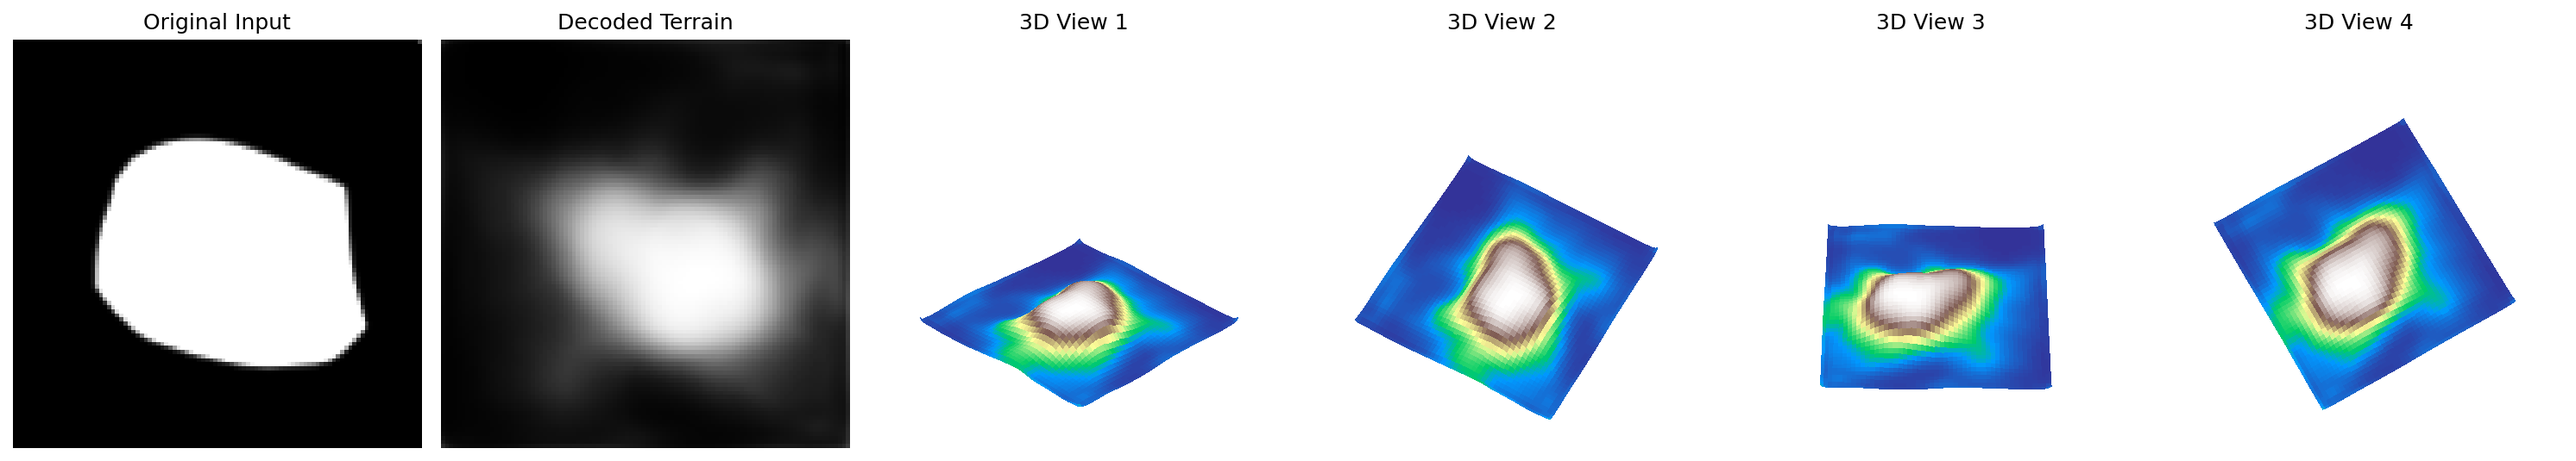
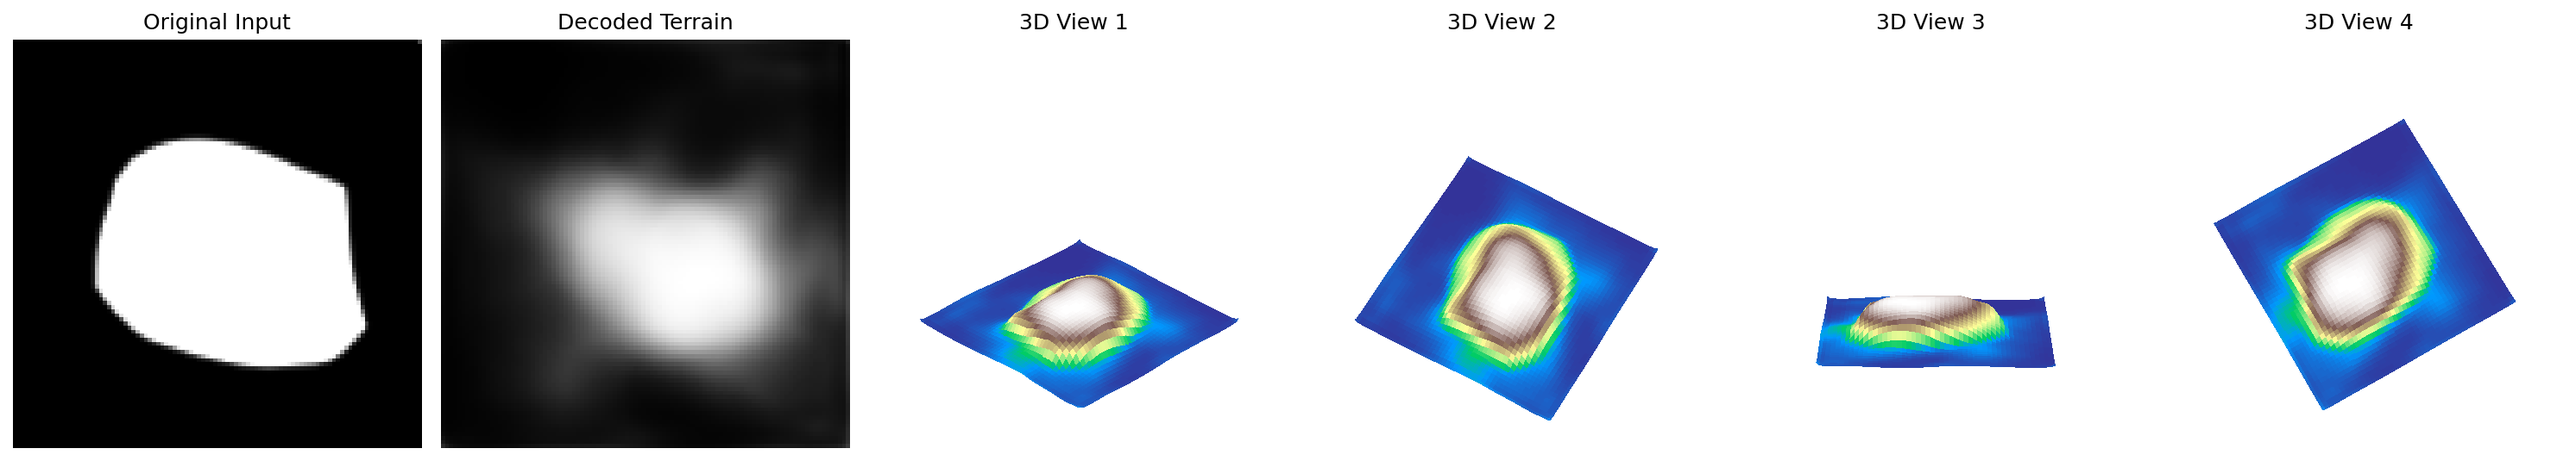
some lerping + better visualiztion

diff --git a/usage.py b/usage.py
@@ -9,6 +9,22 @@ from PIL import Image
 import os
 from classify_terrain_tensor import count_features_by_class, classify_terrain_tensor, terrain_counts_tensor
 
+
+def gaussian_kernel(size: int, sigma: float):
+    ax = torch.arange(-size // 2 + 1., size // 2 + 1.)
+    xx, yy = torch.meshgrid(ax, ax, indexing="ij")
+    kernel = torch.exp(-(xx**2 + yy**2) / (2. * sigma**2))
+    kernel = kernel / kernel.sum()
+    return kernel
+
+
+def gaussian_blur(img: torch.Tensor, blur_size: int, sigma: float):
+    # img shape: (batch, channels, H, W)
+    kernel = gaussian_kernel(blur_size, sigma)
+    kernel = kernel.expand(img.size(1), 1, blur_size, blur_size)
+    return F.conv2d(img, kernel, padding=blur_size//2, groups=img.size(1))
+
+
 device = torch.device("cuda")
 
 # Load model and weights
@@ -18,7 +34,7 @@ model.load_state_dict(checkpoint["model_state_dict"])
 model.eval()
 
 # Load one input image from inputs/
-img_path = "example4.png"
+img_path = "example2.png"
 img = Image.open(os.path.join("inputs", img_path)).convert("L").resize((hpcfg.img_size, hpcfg.img_size))
 x = torch.tensor(np.array(img), dtype=torch.float32).unsqueeze(0).unsqueeze(0) / 255.0
 x = x.to(device)
@@ -31,10 +47,20 @@ injection = torch.tensor([0, 50, 100, 4000, 0, 0, 0, 0, 0, 0]) / x.numel()
 with torch.no_grad():
     mu, logvar, cond = model.encode(x)
     z = model.reparameterize(mu, logvar)
-    recon = model.decode(z, cond).cpu().squeeze().numpy()
+    recon = model.decode(z, cond).cpu().squeeze()
+
+# Linearly interpolate recon with input image
+BLUR_SIZE = 25
+sigma = 1.5
+
+x_blur = gaussian_blur(x.cpu(), BLUR_SIZE, sigma)
+recon_t = recon.unsqueeze(0).unsqueeze(0).cpu()
+
+# Interpolate between blurred input and reconstruction
+recon_mix = torch.lerp(x_blur, recon_t, 0.7).squeeze().cpu().numpy()
 
 # Scale 3D heights
-recon_scaled = recon * 0.2
+recon_scaled = recon_mix * 0.2
 
 # 2D + 4x 3D views
 fig = plt.figure(figsize=(20, 5))
@@ -52,7 +78,7 @@ ax2.set_title("Decoded Terrain")
 ax2.axis('off')
 
 # 3D views at different angles
-angles = [(30, 45), (60, 30), (45, 90), (75, 60)]
+angles = [(30, 45), (60, 30), (15, 90), (75, 60)]
 for i, (elev, azim) in enumerate(angles):
     ax = fig.add_subplot(1, 6, i + 3, projection='3d')
     h, w = recon_scaled.shape
